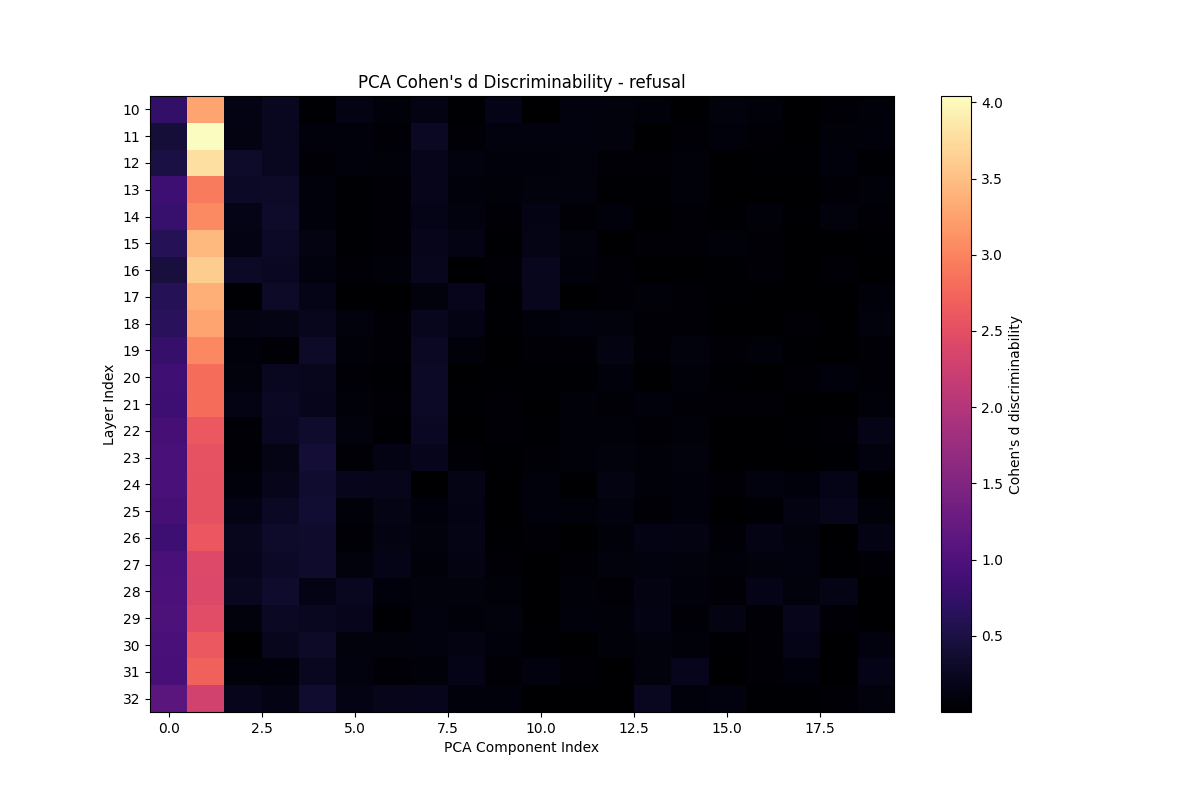
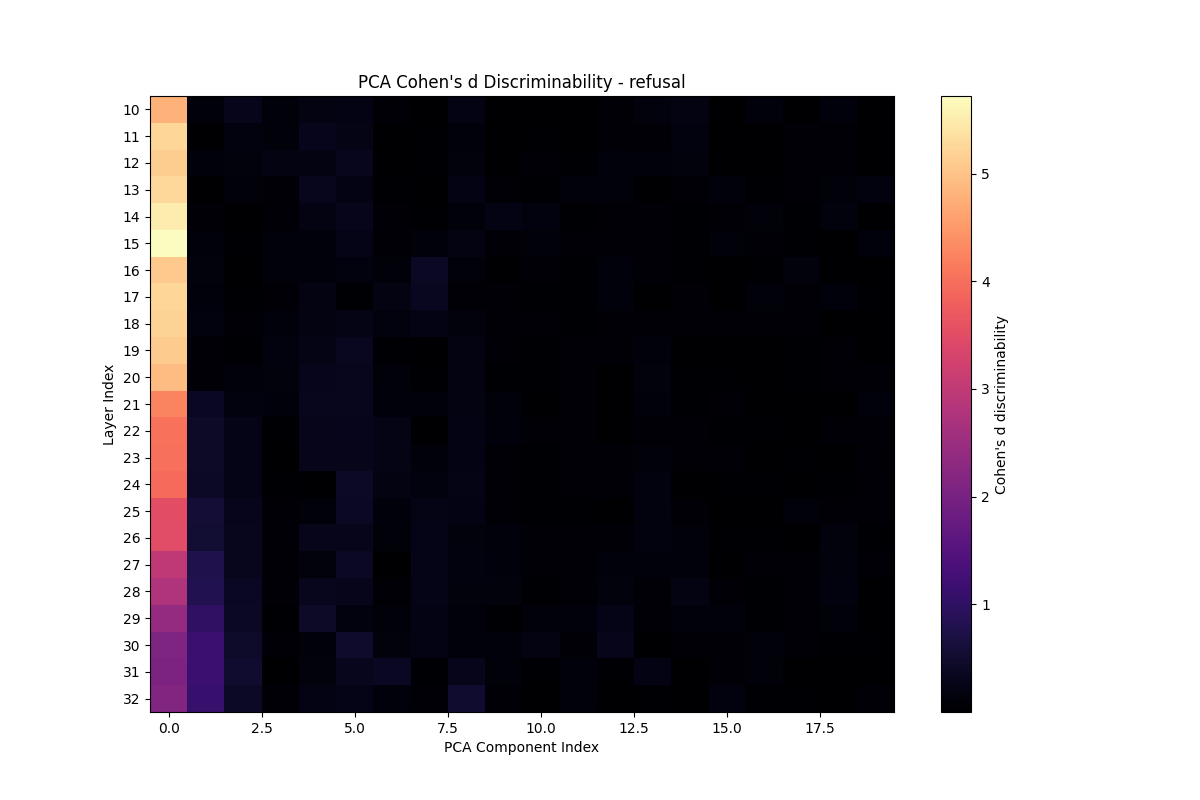
finished refusal validation

diff --git a/dataset/expand_abstract_nouns.py b/dataset/expand_abstract_nouns.py
@@ -86,8 +86,8 @@ print(f"Total baseline nouns found: {len(baseline_list)}")
 
 # Select the requested counts
 # Using a slice from the middle to avoid obscure start-of-alphabet words
-concept_count = 300
-baseline_count = 2000
+concept_count = 4500
+baseline_count = 20000
 
 # Skip first 100 to avoid some common but potentially less "abstract" A words
 concept_vector_final = concept_vector_list[100:100+concept_count] if len(concept_vector_list) >= 100+concept_count else concept_vector_list[:concept_count]
@@ -106,7 +106,7 @@ dataset = {
 }
 
 # Save to JSON
-output_path = os.path.join(os.path.dirname(__file__), 'abstract_nouns_dataset.json')
+output_path = os.path.join(os.path.dirname(__file__), 'expanded_abstract_nouns_dataset.json')
 with open(output_path, 'w') as f:
     json.dump(dataset, f, indent=4)
 

diff --git a/linear_probe/control/refusal_control/save_refusal_activations.py b/linear_probe/control/refusal_control/save_refusal_activations.py
@@ -67,7 +67,7 @@ def main():
                 tokenizer, 
                 instruction, 
                 min_layer_to_save=args.min_layer,
-                position=-6
+                position=-5
             )
             
             for layer, act in current_activations.items():

diff --git a/linear_probe/not_detected_vs_detected_correct/layer_and_position_sweep/save_activations_by_layer_and_position.py b/linear_probe/not_detected_vs_detected_correct/layer_and_position_sweep/save_activations_by_layer_and_position.py
@@ -1,0 +1,3 @@
+# load model
+
+# load abstract dataset

diff --git a/linear_probe/not_detected_vs_detected_correct/save_activations.py b/linear_probe/not_detected_vs_detected_correct/save_activations.py
@@ -1,0 +1,3 @@
+# load model
+
+# inject
